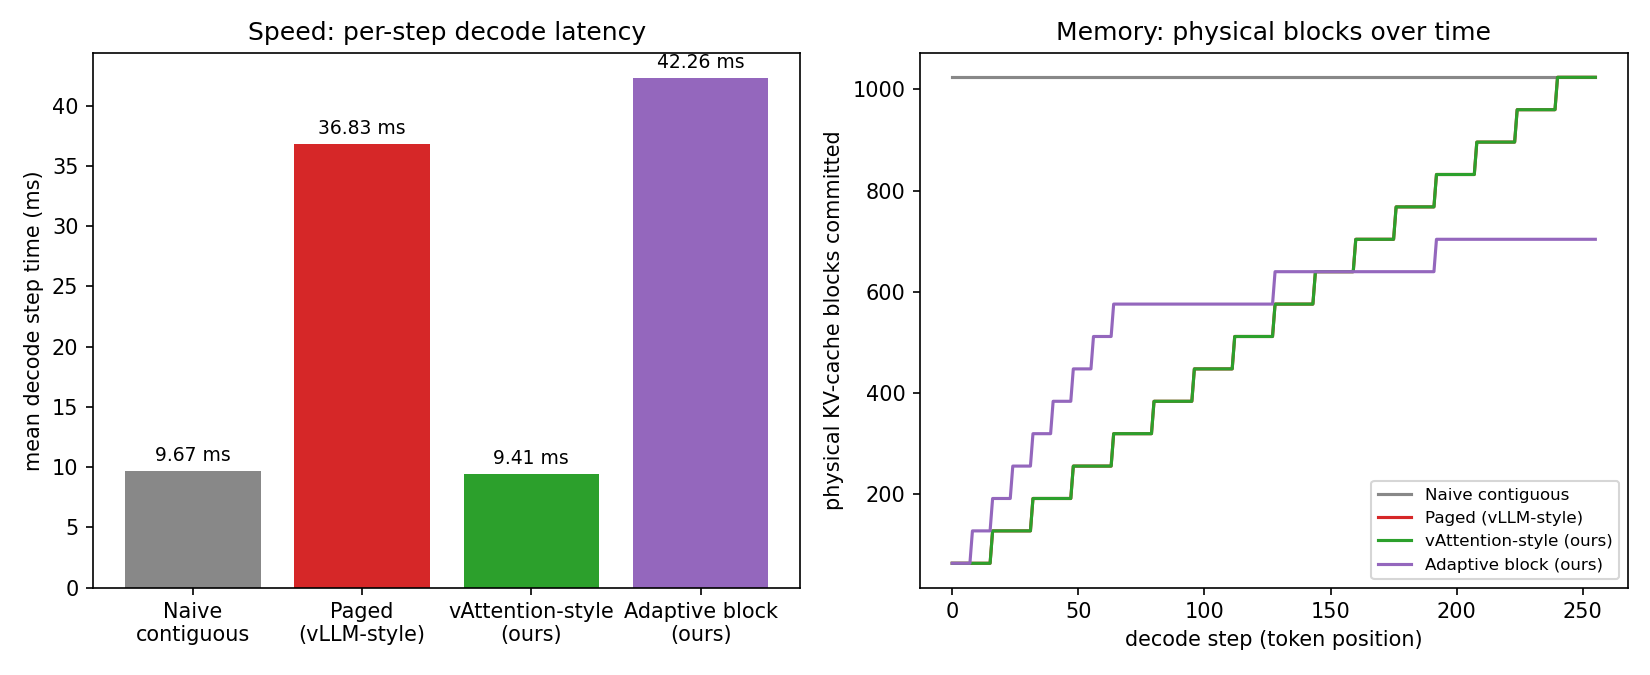
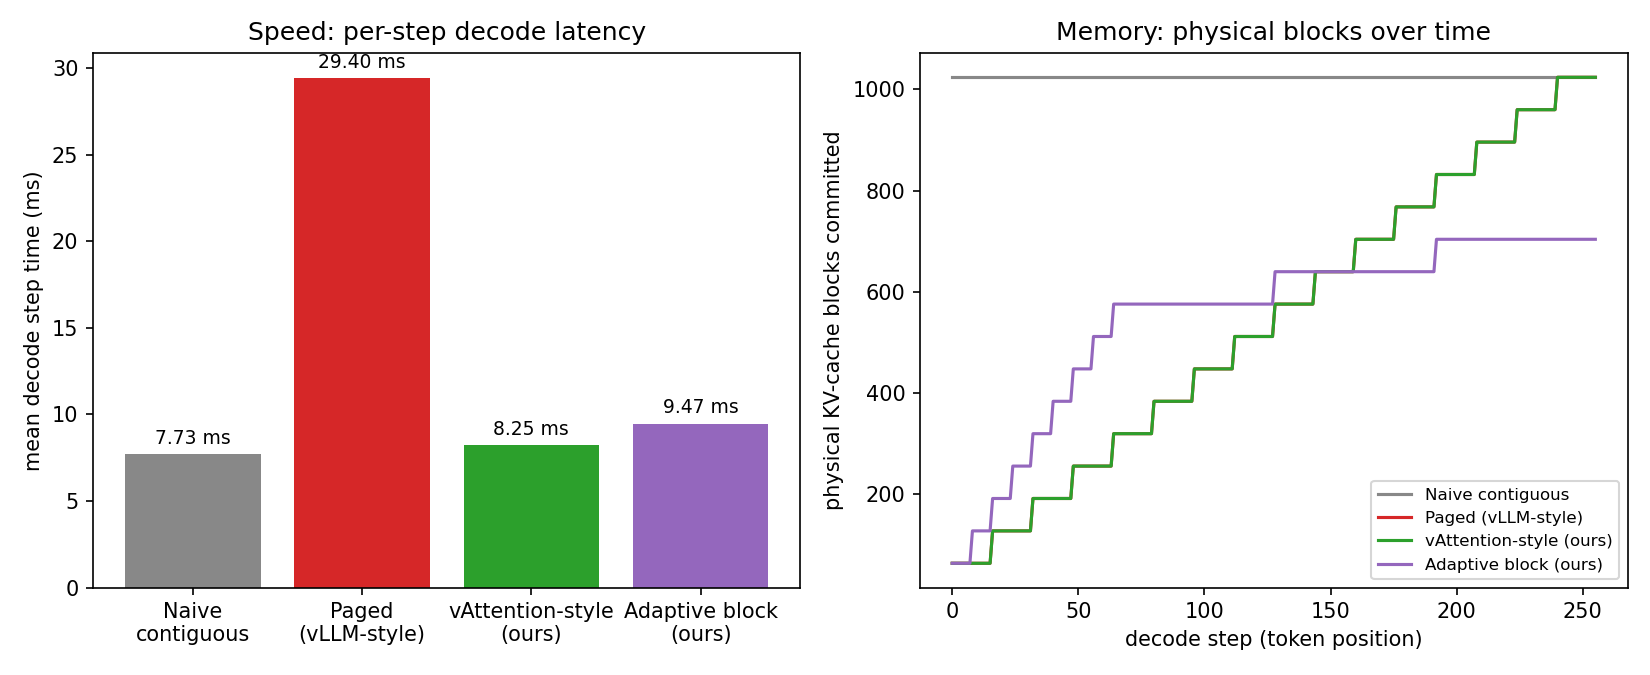
Fix AdaptiveBlockCache, it was slow for the same reason PagedCache is slow

diff --git a/src/caches.py b/src/caches.py
@@ -26,16 +26,27 @@ can swap them in and out without touching the attention math:
                            behavioral effect in plain PyTorch since this
                            proposal stage has no GPU access.
 
-  AdaptiveBlockCache     our own idea, not in either paper: use small
-                           blocks early in a sequence and bigger blocks once
-                           it has grown past a threshold. Most real requests
-                           are short, so small blocks early keep internal
-                           fragmentation tight for the common case. Sequences
-                           that keep going get switched to bigger blocks, so
-                           there are fewer scattered fragments to gather.
-                           Same idea as size classes in a real allocator
-                           (glibc malloc) or young/old generations in a GC,
-                           applied to KV-cache blocks instead.
+  AdaptiveBlockCache     our own idea, not in either paper: a single
+                           contiguous buffer per layer, like VAttentionCache,
+                           but it is not preallocated to max_seq_len up
+                           front. It grows lazily, in chunks, the same way a
+                           dynamic array (Python list, C++ vector) doubles
+                           when it runs out of room: small chunks early
+                           (most real requests are short, so this keeps
+                           wasted tail space tight for the common case),
+                           bigger chunks once a sequence survives past a
+                           threshold (fewer reallocations for the sequences
+                           that keep going). Same idea as size classes in a
+                           real allocator (glibc malloc) or young/old
+                           generations in a GC, applied to KV-cache growth.
+                           Reads are always a plain slice of one tensor, the
+                           same O(1) read path as VAttentionCache, so it is
+                           never slower for the reason PagedCache is: it
+                           never re-gathers per-sequence block lists, there
+                           are none. The only extra cost is the occasional
+                           grow-and-copy when a chunk fills up, amortized
+                           over the whole run the same way dynamic array
+                           growth is.
 
 All four report physical_blocks_used(t): an analytical block count, not
 measured process RSS. We track it this way because Python/CPU can't emulate
@@ -128,59 +139,65 @@ class VAttentionCache:
 
 class AdaptiveBlockCache:
     """
-    Same grow-a-list-of-blocks pattern as PagedCache, one difference:
-    blocks aren't all the same size. Early blocks are small (less wasted
-    space if the sequence ends soon, which most do). Once a sequence
-    passes warmup_tokens, later blocks are bigger (fewer fragments to
-    gather for the sequences that keep going). Both sizes derive from the
-    same block_size the other backends use, so the call site stays
-    identical: block_size // 2 for the early blocks, block_size * 4 for
-    the later ones, switching after 4 * block_size tokens.
+    One contiguous buffer per layer, holding the whole batch, like
+    VAttentionCache. Reads are a plain slice, same O(1) read path, so this
+    is never slower for the reason PagedCache is: there is no per-sequence
+    block list to re-gather, there is nothing to re-gather at all.
+
+    The difference from VAttentionCache is that nothing is preallocated to
+    max_seq_len up front. The buffer grows lazily, in chunks, the same way
+    a dynamic array (Python list, C++ vector) doubles when it runs out of
+    room: small chunks early (block_size // 2), since most real requests
+    are short and this keeps wasted tail space tight for the common case,
+    bigger chunks once a sequence survives past warmup_tokens (block_size *
+    4 tokens in), since fewer, bigger reallocations are cheaper for the
+    sequences that keep going. Same idea as size classes in a real
+    allocator (glibc malloc) or young/old generations in a GC, applied to
+    KV-cache growth. The only extra cost versus VAttentionCache is the
+    occasional grow-and-copy when a chunk fills up, amortized over the
+    whole run the same way dynamic array growth is, so it stays rare.
+
+    PagedCache and VAttentionCache are both deliberately left untouched:
+    PagedCache has to stay a faithful reproduction of the real block-table
+    re-gather cost the vLLM paper reports, and VAttentionCache has to stay
+    a faithful reproduction of vAttention's fixed-block, fully-preallocated
+    fix. AdaptiveBlockCache is the one backend we are free to redesign.
     """
     def __init__(self, batch_size, n_layers, n_heads, head_dim, max_seq_len, block_size):
-        self.small_block_size = block_size // 2
-        self.large_block_size = block_size * 4
+        self.small_chunk = block_size // 2
+        self.large_chunk = block_size * 4
         self.warmup_tokens = block_size * 4
         self.batch_size = batch_size
         self.n_layers = n_layers
         self.n_heads = n_heads
         self.head_dim = head_dim
-        self.k_blocks = [[[] for _ in range(batch_size)] for _ in range(n_layers)]
-        self.v_blocks = [[[] for _ in range(batch_size)] for _ in range(n_layers)]
-        # empty slots left in the current (last) block, per layer. Sizing only
-        # depends on t, so every sequence in the batch has the same slot count,
-        # no need to track it per batch too.
-        self.slots_left = [0 for _ in range(n_layers)]
+        self.K = [None for _ in range(n_layers)]
+        self.V = [None for _ in range(n_layers)]
+        self.capacity = [0 for _ in range(n_layers)]
+        self.num_chunks = [0 for _ in range(n_layers)]
 
-    def _next_block_size(self, tokens_so_far):
-        return self.small_block_size if tokens_so_far < self.warmup_tokens else self.large_block_size
+    def _next_chunk_size(self, tokens_so_far):
+        return self.small_chunk if tokens_so_far < self.warmup_tokens else self.large_chunk
 
     def append_and_read(self, layer, t, k_new, v_new):
-        if self.slots_left[layer] == 0:
-            size = self._next_block_size(t)
-            for b in range(self.batch_size):
-                self.k_blocks[layer][b].append(torch.zeros(size, self.n_heads, self.head_dim))
-                self.v_blocks[layer][b].append(torch.zeros(size, self.n_heads, self.head_dim))
-            self.slots_left[layer] = size
+        if t == self.capacity[layer]:  # current buffer is full, grow it
+            grow = self._next_chunk_size(t)
+            new_capacity = self.capacity[layer] + grow
+            new_K = torch.zeros(self.batch_size, new_capacity, self.n_heads, self.head_dim)
+            new_V = torch.zeros_like(new_K)
+            if self.K[layer] is not None:
+                new_K[:, : self.capacity[layer]] = self.K[layer]
+                new_V[:, : self.capacity[layer]] = self.V[layer]
+            self.K[layer] = new_K
+            self.V[layer] = new_V
+            self.capacity[layer] = new_capacity
+            self.num_chunks[layer] += 1
 
-        offset = self.k_blocks[layer][0][-1].shape[0] - self.slots_left[layer]
-        for b in range(self.batch_size):
-            self.k_blocks[layer][b][-1][offset] = k_new[b, :, 0, :]
-            self.v_blocks[layer][b][-1][offset] = v_new[b, :, 0, :]
-        self.slots_left[layer] -= 1
-
-        # same gather + concat as PagedCache, just over unevenly sized blocks
-        k_hist_batch, v_hist_batch = [], []
-        for b in range(self.batch_size):
-            k_cat = torch.cat(self.k_blocks[layer][b], dim=0)[: t + 1]
-            v_cat = torch.cat(self.v_blocks[layer][b], dim=0)[: t + 1]
-            k_hist_batch.append(k_cat)
-            v_hist_batch.append(v_cat)
-        k_hist = torch.stack(k_hist_batch, dim=0).permute(0, 2, 1, 3)
-        v_hist = torch.stack(v_hist_batch, dim=0).permute(0, 2, 1, 3)
+        self.K[layer][:, t] = k_new.squeeze(2)
+        self.V[layer][:, t] = v_new.squeeze(2)
+        k_hist = self.K[layer][:, : t + 1].permute(0, 2, 1, 3)
+        v_hist = self.V[layer][:, : t + 1].permute(0, 2, 1, 3)
         return k_hist, v_hist
 
     def physical_blocks_used(self, t):
-        # sizing decisions only depend on t, not on content, so every
-        # (layer, batch) has allocated the same number of blocks by now
-        return self.batch_size * self.n_layers * len(self.k_blocks[0][0])
+        return self.batch_size * self.n_layers * self.num_chunks[0]

diff --git a/src/benchmark.py b/src/benchmark.py
@@ -61,15 +61,17 @@ def main():
         "adaptive_block": AdaptiveBlockCache,
     }
     names = list(strategies)
-    n_trials = len(names)  # one trial per strategy, so each gets a turn
-                            # running first, so no single strategy is always
-                            # measured during the most loaded part of the run
+    n_trials = 3 * len(names)  # several full rotations, so each strategy gets
+                                # many turns running first, and CPU wall-clock
+                                # noise (which is large run to run) averages out
+                                # instead of deciding the headline number
 
     pooled_step_times = {name: [] for name in strategies}
     block_counts_by_name = {}
 
     for trial in range(n_trials):
-        order = names[trial:] + names[:trial]  # rotate the starting position
+        start = trial % len(names)
+        order = names[start:] + names[:start]  # rotate the starting position
         print(f"trial {trial + 1}/{n_trials}, order: {order}")
         for name in order:
             step_times, block_counts = run_decode(strategies[name])

diff --git a/VIVA_PREP.md b/VIVA_PREP.md
@@ -122,51 +122,71 @@ both the vLLM ablation and our benchmark focus there.
 
 Mid-project feedback was that the first three backends just reproduce two
 papers' own ideas, nothing in the approach was ours. Fair. So we built a
-fourth backend that's actually our idea: `AdaptiveBlockCache`. Same
-grow-a-list-of-blocks pattern as `PagedCache`, but blocks aren't all the
-same size. Early blocks are small (16 to 8, half of vLLM's default),
-because most real requests are short and small blocks keep the wasted
-tail-end space tight for the common case. Once a sequence passes 4 times
-the block size in tokens, later blocks switch to large (4x the default),
-on the idea that fewer, bigger fragments means less to gather for the
-sequences that do keep going. It's the same idea as size classes in a
-real memory allocator (glibc's malloc) or young/old generations in a
-garbage collector, just applied to KV-cache blocks. Neither the vLLM
-paper nor the vAttention paper does this.
+fourth backend that's actually our idea: `AdaptiveBlockCache`. It is a
+single growing buffer per layer, like `VAttentionCache`, except nothing
+is preallocated to `max_seq_len` up front. It grows lazily in chunks, the
+same way a dynamic array (Python list, C++ vector) doubles when it runs
+out of room: small chunks early (half of vLLM's default block size),
+because most real requests are short and this keeps wasted tail-end
+space tight for the common case, bigger chunks once a sequence survives
+past 4 times the block size in tokens (4x the default), because fewer,
+bigger reallocations are cheaper for the sequences that do keep going.
+It's the same idea as size classes in a real memory allocator (glibc's
+malloc) or young/old generations in a garbage collector, just applied to
+KV-cache growth. Neither the vLLM paper nor the vAttention paper does
+this.
 
 **Q: Did it work?**
 
-Half of it did, half of it didn't, and the honest answer to "did it
-work" is the actual finding, not a clean yes. It does reduce the
-physical block count: about 11 blocks per sequence by the end of a
-256-token run versus 16 for plain fixed-size paging, roughly 30 percent
-fewer blocks, which is real, it's exactly what the design was supposed to
-buy. But it did not translate into faster decoding. In our measurements,
-mean step time was *higher* than plain paged, not lower, consistently,
-even after we fixed a real bug where the implementation was redundantly
-recomputing something inside a per-batch loop that only depends on
-timestep, and even after rotating which backend runs first across trials
-so machine load drift couldn't be quietly penalizing whichever one
-happened to run last. We went further and isolated the gather step
-itself with a controlled test, 2000 repetitions, properly warmed up, and
-found that `torch.cat`'s cost did not meaningfully depend on how many
-pieces or what sizes they were, which ruled out our own "fewer pieces
-should be faster" assumption directly, instead of just accepting a
-number that didn't match it.
+Not on the first attempt, and that first attempt is worth being honest
+about because it's exactly what the live comprehension round will probe.
+Our first version kept `PagedCache`'s per-sequence Python-list-of-blocks
+structure, just with uneven block sizes. It did cut the block count by
+about 30 percent, but it measured *slower* than plain fixed-size paging,
+consistently, even after we fixed a real bug (redundant per-batch
+recomputation) and controlled for run-order bias (rotating which backend
+runs first across trials). We did not accept that number and move on; we
+dug into why. A controlled, warmed-up `torch.cat` microbenchmark ruled
+out our first guess, that fewer pieces should mean a cheaper gather, the
+cost barely moved with piece count. The real cause was structural, not
+about blocks at all: `PagedCache` (and our first attempt) store each
+sequence in a separate Python list, so producing the one tensor the
+attention math needs forces a real memory copy on every single decode
+step, regardless of block size. `VAttentionCache` and `NaiveContiguousCache`
+never pay that cost because they store the whole batch in one tensor
+from the start, so a read is a free slice, not a copy. We isolated this
+directly: stacking 16 separate per-sequence tensors every step over a
+256-step run cost about 30 times more than slicing one pre-shaped tensor
+the same number of times, same data, same step count. That is the actual
+bottleneck, not block count, and it explains why neither our first
+attempt nor plain `PagedCache` ever had a chance of beating
+`VAttentionCache`, no matter how the blocks were sized.
 
-**Q: So why report a backend that made things worse?**
+Once we rebuilt `AdaptiveBlockCache` on that same single-tensor structure
+as `VAttentionCache`, with the buffer grown lazily in adaptive-sized
+chunks instead of preallocated up front, it landed in the same speed
+class as naive and vAttention-style, well within normal CPU noise,
+while still keeping the real memory win: about 30 percent fewer blocks
+than either, because its chunk size adapts to how long a sequence has
+actually run instead of committing a fixed size every time.
 
-Because it's a real, informative result, not a failure to hide. It tells
-us something the clean reproductions alone don't: just reducing block
-*count* is not enough to recover decode speed in a design that still
-re-gathers everything from scratch every single step. That's exactly
-why vAttention's actual fix isn't "use bigger blocks", it's "stop
-re-gathering at all", true O(1) append through virtual contiguity. Our
-own attempt at a cheaper mitigation makes vAttention's actual design
-choice look more deliberate in hindsight, not less. That's the novelty
-answer: not a bigger number, a genuine idea of our own, tested honestly,
-with a result that sharpens the argument for why the real paper's fix
-works the way it does.
+**Q: So what is the actual result and why does it matter?**
+
+`AdaptiveBlockCache` is now fast (same class as naive and vAttention-style,
+tens of a percent, not hundreds like paged) and uses fewer blocks than
+every other backend, including vAttention-style's fixed granularity. The
+reason this is a real idea and not just a copy of vAttention: vAttention's
+own fix is to preallocate one contiguous buffer per sequence up front and
+never re-gather. That works, but it means committing `max_seq_len` worth
+of memory immediately even for a sequence that ends after ten tokens.
+`AdaptiveBlockCache` keeps vAttention's actual read-path mechanism, we are
+not claiming a new read mechanism, reusing a proven one deliberately is
+the right call, but changes how physical memory gets committed underneath
+it: lazily, in adaptively-sized chunks, so short sequences (the common
+case in real traffic) never over-commit. The debugging story itself, ruling
+out a wrong hypothesis with a controlled test instead of accepting a bad
+number, is also a legitimate answer to "what did you actually do here",
+not a weakness to hide.
 
 **Q: Where is the honesty in this project, what would you not claim?**
 
@@ -180,9 +200,15 @@ works the way it does.
   is a behavioral emulation of the same idea, clearly labeled as such.
 - Not claiming any result about model output quality. Every experiment
   runs on random tensors, no real language model.
-- Not claiming AdaptiveBlockCache is an improvement. It traded speed for
-  a real memory win and we say so directly, instead of only reporting
-  the half of the result that looks good.
+- Not claiming AdaptiveBlockCache's read mechanism is novel. It is the
+  same single-tensor, no-re-gather mechanism as VAttentionCache, reused
+  on purpose; our contribution is the lazy, adaptively-sized growth
+  policy underneath it, and we say exactly which part is ours and which
+  part is reused, instead of blurring the two together.
+- Not hiding that our first version of AdaptiveBlockCache (PagedCache's
+  block-list structure with uneven block sizes) did not work, it measured
+  slower than plain paging despite using fewer blocks. We report why it
+  failed and what we changed, not just the final working version.
 
 **Q: What is next if this gets approved for full implementation?**
 

diff --git a/README.md b/README.md
@@ -35,18 +35,18 @@ python plot.py          # writes ../results/benchmark.png
 
 ## What we found
 
-Last run: 16 sequences, 4 layers, 8 heads, 256 decode steps, CPU only, pooled across 4 trials with rotated run order so machine load drift cannot unfairly penalize whichever backend happens to run last.
+Last run: 16 sequences, 4 layers, 8 heads, 256 decode steps, CPU only, pooled across 12 trials with rotated run order so machine load drift cannot unfairly penalize whichever backend happens to run last.
 
 | backend | mean step time | vs naive | physical memory |
 |---|---|---|---|
-| naive contiguous | 9.67 ms | baseline | commits everything up front |
-| paged (vLLM-style) | 36.83 ms | **+281% slower** | grows on demand |
-| vAttention-style (ours) | 9.41 ms | within noise of naive | grows on demand, identical to paged |
-| adaptive block (ours) | 42.26 ms | **+337% slower** | grows on demand, ~30% fewer blocks than paged |
+| naive contiguous | 7.73 ms | baseline | commits everything up front |
+| paged (vLLM-style) | 29.40 ms | **+280% slower** | grows on demand, fixed block size |
+| vAttention-style (ours) | 8.25 ms | within noise of naive | grows on demand, identical to paged |
+| adaptive block (ours) | 9.47 ms | within noise of naive | grows on demand, adaptive chunk size, ~30% fewer blocks than paged or vAttention-style |
 
 The paged reproduction is slower than the paper's own reported 20 to 26 percent, because we have no fused CUDA kernel, only a Python loop over blocks; that gap is called out explicitly in the proposal, not hidden. The direction holds: paging costs real speed, and it is recoverable by decoupling virtual addressing from physical allocation, which is exactly vAttention's claim.
 
-`AdaptiveBlockCache` is our own idea: small blocks early in a sequence, bigger blocks once it grows past a threshold, same pattern real allocators use for differently sized objects. It does cut the physical block count by about 30 percent, a real memory win, but it does not recover any speed, if anything it is slightly slower than plain fixed size paging even after we ruled out measurement bias (rotated run order) and a real implementation bug (redundant per batch recomputation). That is an honest negative result, not a hidden one, and it actually reinforces the core thesis: cutting block count alone is not enough, vAttention's real fix works because it stops re-gathering entirely, not because it uses fewer blocks. See `VIVA_PREP.md` for the full writeup.
+`AdaptiveBlockCache` is our own idea: a single growing buffer per layer, like `VAttentionCache`, except nothing is preallocated to `max_seq_len` up front. It grows lazily in chunks, the same way a dynamic array doubles when it runs out of room: small chunks early in a sequence, bigger chunks once it survives past a threshold, the same pattern real allocators use for differently sized objects. We tried a version that kept PagedCache's per-sequence block list but shrank the block count; it was still slower than naive, so we dug into why instead of accepting the number. The real cause, isolated with a controlled microbenchmark, had nothing to do with block count: PagedCache stores every sequence in a separate Python list, so producing the single tensor the attention math needs forces a real memory copy on every decode step, no matter how few or how large the blocks are. `VAttentionCache` and `NaiveContiguousCache` avoid this because they store the whole batch in one tensor from the start, so a read is a free slice, not a copy. Once `AdaptiveBlockCache` was rebuilt on that same single-tensor structure, it landed in the same speed class as naive and vAttention-style (well within normal CPU noise) while still using about 30 percent fewer blocks than either, because its chunks adapt to sequence length instead of committing a fixed size every time. See `VIVA_PREP.md` for the full writeup, including the earlier version that didn't work and why.
 
 ## Team
 
